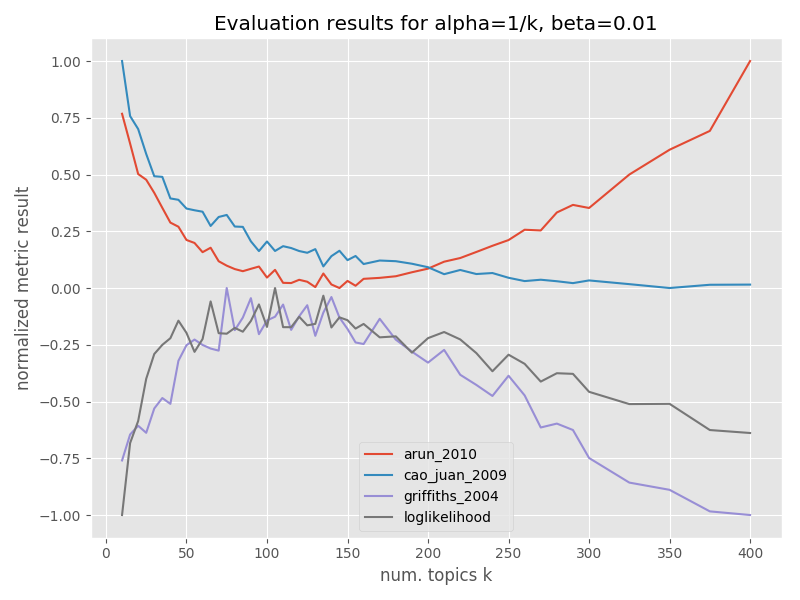
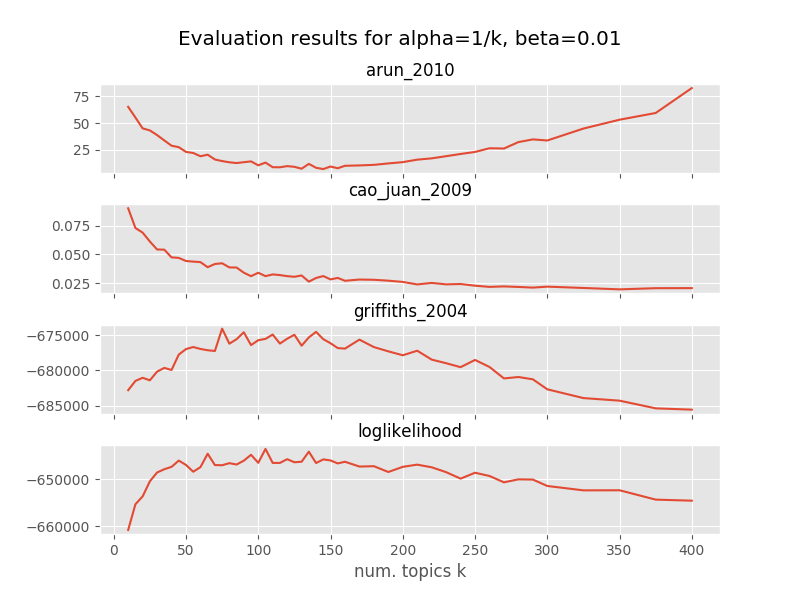
change  to show individual metrics' results as subplots update examples

diff --git a/tmtoolkit/lda_utils/visualize.py b/tmtoolkit/lda_utils/visualize.py
@@ -2,6 +2,7 @@ import os
 import logging
 
 import numpy as np
+import matplotlib.pyplot as plt
 
 from tmtoolkit.utils import mat2d_window_from_indices
 from tmtoolkit.lda_utils.common import top_n_from_distribution
@@ -304,15 +305,14 @@ def plot_heatmap(fig, ax, data,
 #
 
 
-def plot_eval_results(fig, ax, eval_results, metric=None, normalize_y=None,
-                      xaxislabel=None, yaxislabel=None, title=None):
+def plot_eval_results(eval_results, metric=None, xaxislabel=None, yaxislabel=None, title=None,
+                      title_fontsize='x-large', axes_title_fontsize='large', **fig_kwargs):
     """
-    Plot the evaluation results from `eval_results` to a matplotlib Figure `fig` and Axes `ax`. `eval_results` must be
-    a sequence containing `(param, values)` tuples, where `param` is the parameter value to appear on the x axis and
-    `values` can be a dict structure containing the metric values. `eval_results` can be created using the
-    `results_by_parameter` function from the lda_utils.common module.
+    Plot the evaluation results from `eval_results`. `eval_results` must be a sequence containing `(param, values)`
+    tuples, where `param` is the parameter value to appear on the x axis and `values` can be a dict structure
+    containing the metric values. `eval_results` can be created using the `results_by_parameter` function from the
+    `lda_utils.common` module.
     Set `metric` to plot only a specific metric.
-    Set `normalize_y` to True or False to either normalize metric values to [0,1] (or [-1,0] if all-negative) or not.
     Set `xaxislabel` for a label on the x-axis.
     Set `yaxislabel` for a label on the y-axis.
     Set `title` for a plot title.
@@ -324,67 +324,38 @@ def plot_eval_results(fig, ax, eval_results, metric=None, normalize_y=None,
         raise ValueError('`eval_results` must be a list or tuple containing a (param, values) tuple. '
                          'Maybe `eval_results` must be converted with `results_by_parameter`.')
 
-    if normalize_y is None:
-        normalize_y = metric is None
+    if metric is not None and type(metric) not in (list, tuple):
+        metric = [metric]
+    elif metric is None:
+        # remove special evaluation result 'model': the calculated model itself
+        all_metrics = set(next(iter(eval_results))[1].keys()) - {'model'}
+        metric = sorted(all_metrics)
 
-    if metric == 'cross_validation':   # this is currently not really supported
-        plotting_res = []
-        for k, folds in eval_results:
-            plotting_res.extend([(k, val, f) for f, val in enumerate(folds)])
-        x, y, f = zip(*plotting_res)
-        ax.scatter(x, y, c=f, alpha=0.5)
-    else:
-        if metric is not None and type(metric) not in (list, tuple):
-            metric = [metric]
-        elif metric is None:
-            # remove special evaluation result 'model': the calculated model itself
-            all_metrics = set(next(iter(eval_results))[1].keys()) - {'model'}
-            metric = sorted(all_metrics)
+    fig, axes = plt.subplots(len(metric), ncols=1, sharex=True, **fig_kwargs)
 
-        if normalize_y:
-            res_per_metric = {}
-            for m in metric:
-                params = list(zip(*eval_results))[0]
-                unnorm = np.array([metric_res[m] for _, metric_res in eval_results])
-                unnorm_nonnan = unnorm[~np.isnan(unnorm)]
-                vals_max = np.max(unnorm_nonnan)
-                vals_min = np.min(unnorm_nonnan)
+    # set title
+    if title:
+        figtitle = fig.suptitle(title, fontsize=title_fontsize)
+        figtitle.set_y(0.95)
 
-                if vals_max != vals_min:
-                    rng = vals_max - vals_min
-                else:
-                    rng = 1.0   # avoid division by zero
+    x = list(zip(*eval_results))[0]
 
-                if vals_max < 0:
-                    norm = -(vals_max - unnorm) / rng
-                else:
-                    norm = (unnorm - vals_min) / rng
-                res_per_metric[m] = dict(zip(params, norm))
+    for i, (ax, m) in enumerate(zip(axes.flatten(), metric)):
+        y = [metric_res[m] for _, metric_res in eval_results]
+        ax.plot(x, y, label=m)
 
-            eval_results_tmp = []
-            for k, _ in eval_results:
-                metric_res = {}
-                for m in metric:
-                    metric_res[m] = res_per_metric[m][k]
-                eval_results_tmp.append((k, metric_res))
-            eval_results = eval_results_tmp
-
-        x = list(zip(*eval_results))[0]
-        for m in metric:
-            y = [metric_res[m] for _, metric_res in eval_results]
-            ax.plot(x, y, label=m)
+        ax.set_title(m, fontsize=axes_title_fontsize)
 
         # set axis labels
-        if xaxislabel:
+        if xaxislabel and i == len(metric)-1:
             ax.set_xlabel(xaxislabel)
         if yaxislabel:
             ax.set_ylabel(yaxislabel)
 
-        # set title
-        if title:
-            ax.set_title(title)
+    fig.subplots_adjust(hspace=0.35)
 
-        # set legend
-        ax.legend(loc='best')
+    # set title
+    if title:
+        fig.subplots_adjust(top=0.86)
 
-    return fig, ax
+    return fig, axes

diff --git a/examples/lda_evaluation.py b/examples/lda_evaluation.py
@@ -4,6 +4,7 @@ An example for topic modeling evaluation with the [lda package](http://pythonhos
 """
 import lda  # for the Reuters dataset
 
+from tmtoolkit.utils import pickle_data
 from tmtoolkit.lda_utils import tm_lda
 from tmtoolkit.lda_utils.common import results_by_parameter, \
     print_ldamodel_topic_words, print_ldamodel_doc_topics, save_ldamodel_summary_to_excel
@@ -34,13 +35,15 @@ if __name__ == '__main__':   # this is necessary for multiprocessing on Windows!
     models = tm_lda.evaluate_topic_models(dtm, varying_params, const_params,
                                           return_models=True)  # retain the calculated models
 
+    # save the results as pickle
+    print('saving results')
+    pickle_data(models, 'data/lda_evaluation_results.pickle')
+
     # plot the results
     print('plotting evaluation results')
     results_by_n_topics = results_by_parameter(models, 'n_topics')
-    fig, ax = plt.subplots(figsize=(8, 6))
-    plot_eval_results(fig, ax, results_by_n_topics, xaxislabel='num. topics k', yaxislabel='normalized metric result',
-                      title='Evaluation results for alpha=1/k, beta=0.01')
-    plt.tight_layout()
+    plot_eval_results(results_by_n_topics, xaxislabel='num. topics k',
+                      title='Evaluation results for alpha=1/k, beta=0.01', figsize=(8, 6))
     plt.savefig('data/lda_evaluation_plot.png')
     plt.show()
 

diff --git a/README.md b/README.md
@@ -193,8 +193,7 @@ from tmtoolkit.lda_utils.common import results_by_parameter
 from tmtoolkit.lda_utils.visualize import plot_eval_results
 
 results_by_n_topics = results_by_parameter(models, 'n_topics')
-fig, ax = plt.subplots()
-plot_eval_results(fig, ax, results_by_n_topics)
+plot_eval_results(results_by_n_topics)
 plt.show()
 
 # the peak seems to be around n_topics == 140

diff --git a/CHANGES.md b/CHANGES.md
@@ -1,5 +1,9 @@
 # Changes
 
+##
+
+* change `plot_eval_results` to show individual metrics' results as subplots
+
 ## 0.4.2 - 2018-02-06
 
 * made greedy partitioning much more efficient (i.e. faster work distribution)
